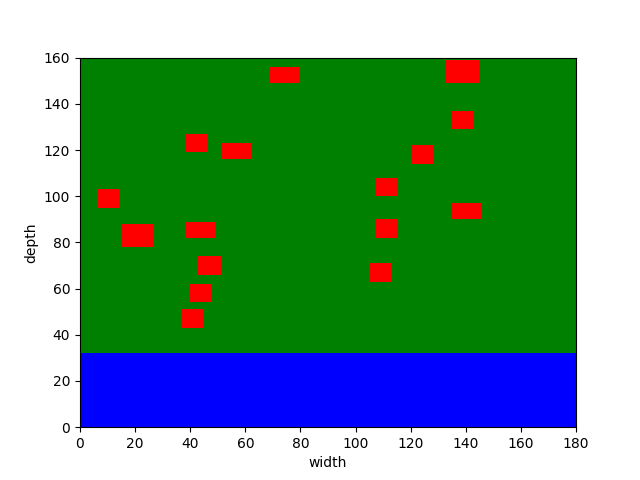
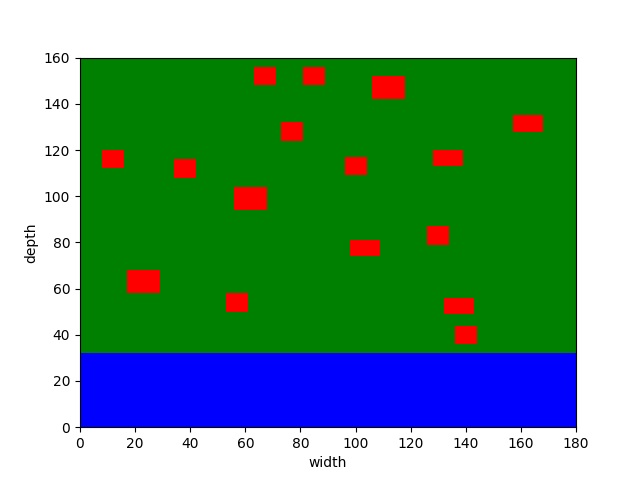
randomstate hillclimber done

diff --git a/code/randomstate_hillclimber.py b/code/randomstate_hillclimber.py
@@ -1,14 +1,39 @@
+import copy
+
 from graph import Graph
 
 class Randomstate_Hillclimber:
 
-    def __init__(self, loops):
+    def __init__(self, loops, houses, area):
         self.loops = loops
+        self.houses = houses
+        self.area = area
 
 
     def looper(self):
         """
             In a loop of n times, decided by the number of loops, random states will be generated.
         """
+        best_value = 0
+        best_state = []
+
         for loop in range(self.loops):
-            # go through algorithm
+            # randomly assign the invalid placed houses until a valid state is reached
+            self.area.randomly_assign_houses(self.houses)
+
+            # calculate final houseprice
+            self.area.houseprices(self.houses)
+
+            # get final houseprice
+            final_networth = self.area.get_networth(self.houses)
+
+            if best_value < final_networth:
+                best_value = final_networth
+                best_state = copy.deepcopy(self.houses)
+
+            # reset the graph
+            self.area.area_reset(self.houses)
+
+        # final outcome
+        self.area.load_houses(best_state)
+        self.area.write_output(best_state)

diff --git a/code/main.py b/code/main.py
@@ -20,7 +20,6 @@ elif sys.argv[2] not in ["20", "40", "60"]:
 else:
     area = sys.argv[1]
 
-
 # Make the graph
 area = Graph(area)   
 
@@ -46,19 +45,18 @@ for maison in range(int(total_maisons)):
     all_houses.append(maison)
 
 
-
 # ---------------------- Random State Hillclimber --------------------
 
-# just comment out the below lines when random state hillclimber is not needed
+# just comment out the below lines when random state hillclimber is not needed 
+# when using this algorithm comment out everything below the -----
 loop = input("How many random states do you want to generate: ")
 
 while not loop.isdigit():
    loop = input("Insert number of runs: ")
 loops = int(loop)
-randomstate_hillclimber = Randomstate_Hillclimber(loops)
+randomstate_hillclimber = Randomstate_Hillclimber(loops, all_houses, area)
 randomstate_hillclimber.looper()
 # -------------------------------------------------------------------
-
 
 
 # randomly assign the invalid placed houses until a valid state is reached

diff --git a/code/graph.py b/code/graph.py
@@ -237,3 +237,10 @@ class Graph():
             self.total_price.append(house.price)
             net_worth = sum(self.total_price)
         return net_worth   
+
+    def area_reset(self, houses):
+        """
+            Resets every house to its starting position
+        """
+        for house in houses:
+            house.corner_lowerleft = [0,0]
